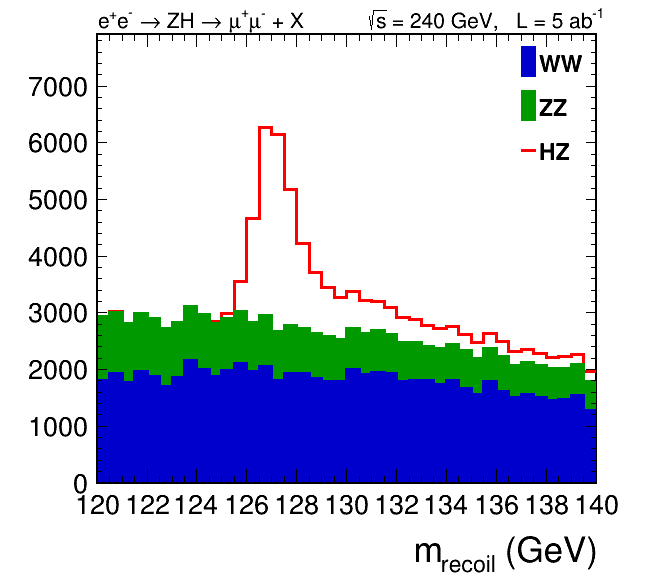
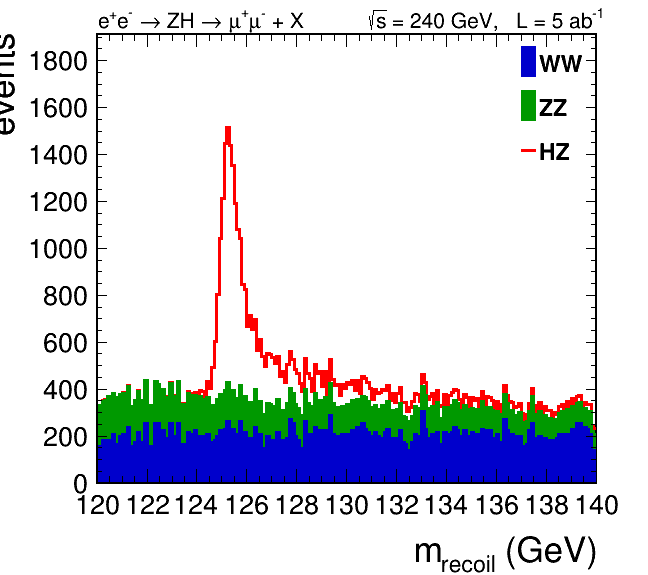
Changed pow(x,2) to x*x

diff --git a/Recoil/plot_recoil.py b/Recoil/plot_recoil.py
@@ -11,14 +11,14 @@ import ROOT
 import multiprocessing
 
 # Enable multi-threading (parallel processing, do not use more than 8 cores)
-maxcpus = multiprocessing.cpu_count()
-ROOT.EnableImplicitMT(min(maxcpus,8))
-usecpus = max(ROOT.GetThreadPoolSize(),1)
-print("ROOT: %s CPUs used out of %s available ..." % (usecpus, maxcpus))
+#maxcpus = multiprocessing.cpu_count()
+#ROOT.EnableImplicitMT(min(maxcpus,8))
+#usecpus = max(ROOT.GetThreadPoolSize(),1)
+#print("ROOT: %s CPUs used out of %s available ..." % (usecpus, maxcpus))
 
 # Archivos de entrada
 # Los archivos estan en 'path'. Vamos a usar tres archivos, X_skimmed_reduced.root, donde X = eeHZ
-# (señal) +  eeZZ,  eeWW (fondos)
+# (sennal) +  eeZZ,  eeWW (fondos)
 sampleName=["eeHZ","eeZZ","eeWW"]
 nProcesses=len(sampleName)
 path = "/afs/ciemat.es/user/a/alcaraz/public/FCCee/"
@@ -41,28 +41,37 @@ for i in range(nProcesses):
 
     # Para simplificar la seleccion, de momento vamos a mirar sucesos con exactamente dos
     # muones 
-    df[p] = df[p].Filter("NMuon == 2", "Events with exactly two muons")
+    df[p] = df[p].Filter("NMuon >= 2", "Events with at least two muons")
     df[p] = df[p].Filter("Muon_charge[0] != Muon_charge[1]", "Muons with opposite charge")
 
     # 1) Metodo 1: variable a variable
     # Vamos a definir mas variables cinematicas. 
     # Dada la geometria del detector es comodo trabajar en cilindricas 
     # en vez de cartesianas: vamos a definir el momento del muon en el plano transverso
-    df[p] = df[p].Define("Muon_pt","sqrt( pow(Muon_px,2)+pow(Muon_py,2) ) ")
-    # Tambien queremos la energia del muon. E^2=M^2+P^2, aqui c=1. La masa es muy pequeña,
+    df[p] = df[p].Define("Muon_pt","sqrt( Muon_px*Muon_px+Muon_py*Muon_py ) ")
+    # Tambien queremos la energia del muon. E^2=M^2+P^2, aqui c=1. La masa es muy pequenna,
     # podriamos descartarla 
-    df[p] = df[p].Define("Muon_E","sqrt(pow(Muon_px,2)+pow(Muon_py,2)+pow(Muon_pz,2)+pow(Muon_mass,2))")
+    df[p] = df[p].Define("Muon_E","sqrt( Muon_px*Muon_px+ Muon_py*Muon_py+ Muon_pz*Muon_pz+Muon_mass*Muon_mass)")
+
+    df[p] = df[p].Filter("Muon_pt[0]>10&&Muon_pt[1]>10","Muon Pt>10")
 
     # A partir de los dos muones [0] y [1], vamos a reconstruir la masa invariante del par
     # de muones.  
-    df[p] = df[p].Define("Dimuon_p_long", "sqrt( pow( (Muon_px[0]+Muon_px[1]) ,2) + pow((Muon_py[0]+Muon_py[1]) ,2) + pow((Muon_py[0]+Muon_py[1]) ,2) )")
-    df[p] = df[p].Define("Dimuon_E_long", "Muon_E[0]+Muon_E[1]")
-    df[p] = df[p].Define("Dimuon_mass_long", "sqrt( pow(Dimuon_E_long,2) - pow(Dimuon_p_long,2i) ) ")
+#    df[p] = df[p].Define("Dimuon_p_long", "sqrt( (Muon_px[0]+Muon_px[1])*(Muon_px[0]+Muon_px[1]) + (Muon_py[0]+Muon_py[1])*(Muon_py[0]+Muon_py[1]) + (Muon_pz[0]+Muon_pz[1])*(Muon_pz[0]+Muon_pz[1]))")
+#    df[p] = df[p].Define("Dimuon_E_long", "Muon_E[0]+Muon_E[1]")
+#    df[p] = df[p].Define("Dimuon_mass_long", "sqrt( Dimuon_E_long*Dimuon_E_long - Dimuon_p_long*Dimuon_p_long ) ")
 
     # 2) Metodo 2: cuadrimomentos
     # La vida es un poco mas comoda si directamente definimos cuadrivectores de Lorentz  
     df[p] = df[p].Define("Muon0_p4","ROOT::Math::PxPyPzEVector(Muon_px[0],Muon_py[0],Muon_pz[0],Muon_E[0])")
     df[p] = df[p].Define("Muon1_p4","ROOT::Math::PxPyPzEVector(Muon_px[1],Muon_py[1],Muon_pz[1],Muon_E[1])")
+
+    df[p] = df[p].Define("Muon0_pt","Muon0_p4.Pt()")
+    df[p] = df[p].Define("Muon1_pt","Muon0_p4.Pt()")
+    df[p] = df[p].Define("Muon0_eta","Muon0_p4.Eta()")
+    df[p] = df[p].Define("Muon1_eta","Muon0_p4.Eta()")
+    df[p] = df[p].Define("Muon0_phi","Muon0_p4.Phi()")
+    df[p] = df[p].Define("Muon1_phi","Muon0_p4.Phi()")
 
     # Podrias definir df[p] = df[p].Define("Muon0_pt","Muon0_p4.Pt()")  
 
@@ -75,13 +84,13 @@ for i in range(nProcesses):
     df[p] = df[p].Define("Dimuon_Pt", "DiMuon_p4.Pt()")
 
     # Filtramos en la masa del Z:
-    df[p] = df[p].Filter("Dimuon_mass>70 && Dimuon_mass<110","70 < Mreco(dimuon) < 110 GeV")
+    df[p] = df[p].Filter("Dimuon_mass>80 && Dimuon_mass<100","80 < Mreco(dimuon) < 100 GeV")
 
     # Reconstruimos el recoil, que corresponde a la masa del Higgs:
     df[p] = df[p].Define("p4total","ROOT::Math::PxPyPzEVector(0.,0.,0.,240.)")
     df[p] = df[p].Define("recoil","(p4total-DiMuon_p4).M()")
 
-    #df[p].Display({"Muon_pt","Muon_charge","Dimuon_mass","recoil"},30 ).Print()
+#    df[p].Display({"Muon_pt","Muon_charge","Dimuon_mass","recoil"},30 ).Print()
 
     print("CutFlow for process", sampleName[i])
     df[p].Report().Print()	
@@ -101,13 +110,15 @@ hZRapidity={}
 hRecoilRapidity={}
 hZTheta={}
 hRecoilTheta={}
+hNMuons={}
+hNElectrons={}
 
 # Rellenamos histogramas: 
 
 for i in range(nProcesses):
    p = processes[i]
-   hMass[p] = df[p].Histo1D(("Z_mass_{}".format(p), "Dimuon mass;m_{#mu#mu} (GeV);N_{Events}",80,70, 110), "Dimuon_mass")
-   hRecoil[p] = df[p].Histo1D(("Recoil_mass_{}".format(p), "Z leptonic recoil mass; m_{recoil} (GeV);N_{Events}",40,120, 140), "recoil")
+   hMass[p] = df[p].Histo1D(("Z_mass_{}".format(p), "Dimuon mass;m_{#mu#mu} (GeV);N_{Events}",80,80, 100), "Dimuon_mass")
+   hRecoil[p] = df[p].Histo1D(("Recoil_mass_{}".format(p), "Z leptonic recoil mass; m_{recoil} (GeV);N_{Events}",200,120, 140), "recoil")
 
    hZPt[p] = df[p].Histo1D(("Z_Pt_{}".format(p), "Dimuon Pt; Z Pt (GeV);N_{Events}",120,0, 120), "Dimuon_Pt")
    hRecoilPt[p] = df[p].Define("recoilPt","(p4total-DiMuon_p4).Pt()").Histo1D(("Recoil_Pt_{}".format(p), "Recoil Pt; Z recoil Pt (GeV);N_{Events}",100,0,120), "recoilPt")
@@ -126,10 +137,13 @@ for i in range(nProcesses):
    hZRapidity[p] = df[p].Define("Z_y","DiMuon_p4.Rapidity()").Histo1D(("Z_y_{}".format(p), "Dimuon Rapidity; Z y;N_{Events}",100,-2,2), "Z_y")
    hRecoilRapidity[p] = df[p].Define("recoil_y","(p4total-DiMuon_p4).Rapidity()").Histo1D(("Recoil_y_{}".format(p),"Recoil Rapidity; Recoil y;N_{Events}",100,-2,2), "recoil_y")
 
+   hNMuons[p] = df[p].Histo1D(("NMuons_{}".format(p), "NMuons;N_{#mu};N_{Events}",5,0, 5), "NMuon")
+   hNElectrons[p] = df[p].Histo1D(("NElectrons_{}".format(p), "NElectrons;N_{e};N_{Events}",5,0, 5),"NElectron")
 
 
 
-# Salva los histogramas en un archivo root para pintarlos después 
+
+# Salva los histogramas en un archivo root para pintarlos despues 
 
 out = ROOT.TFile("histos.root","RECREATE")
 out.cd()
@@ -149,7 +163,8 @@ for p in processes:
    hRecoilRapidity[p].Write()
    hZTheta[p].Write()
    hRecoilTheta[p].Write()
-
+   hNMuons[p].Write()
+   hNElectrons[p].Write()
  
 
 
